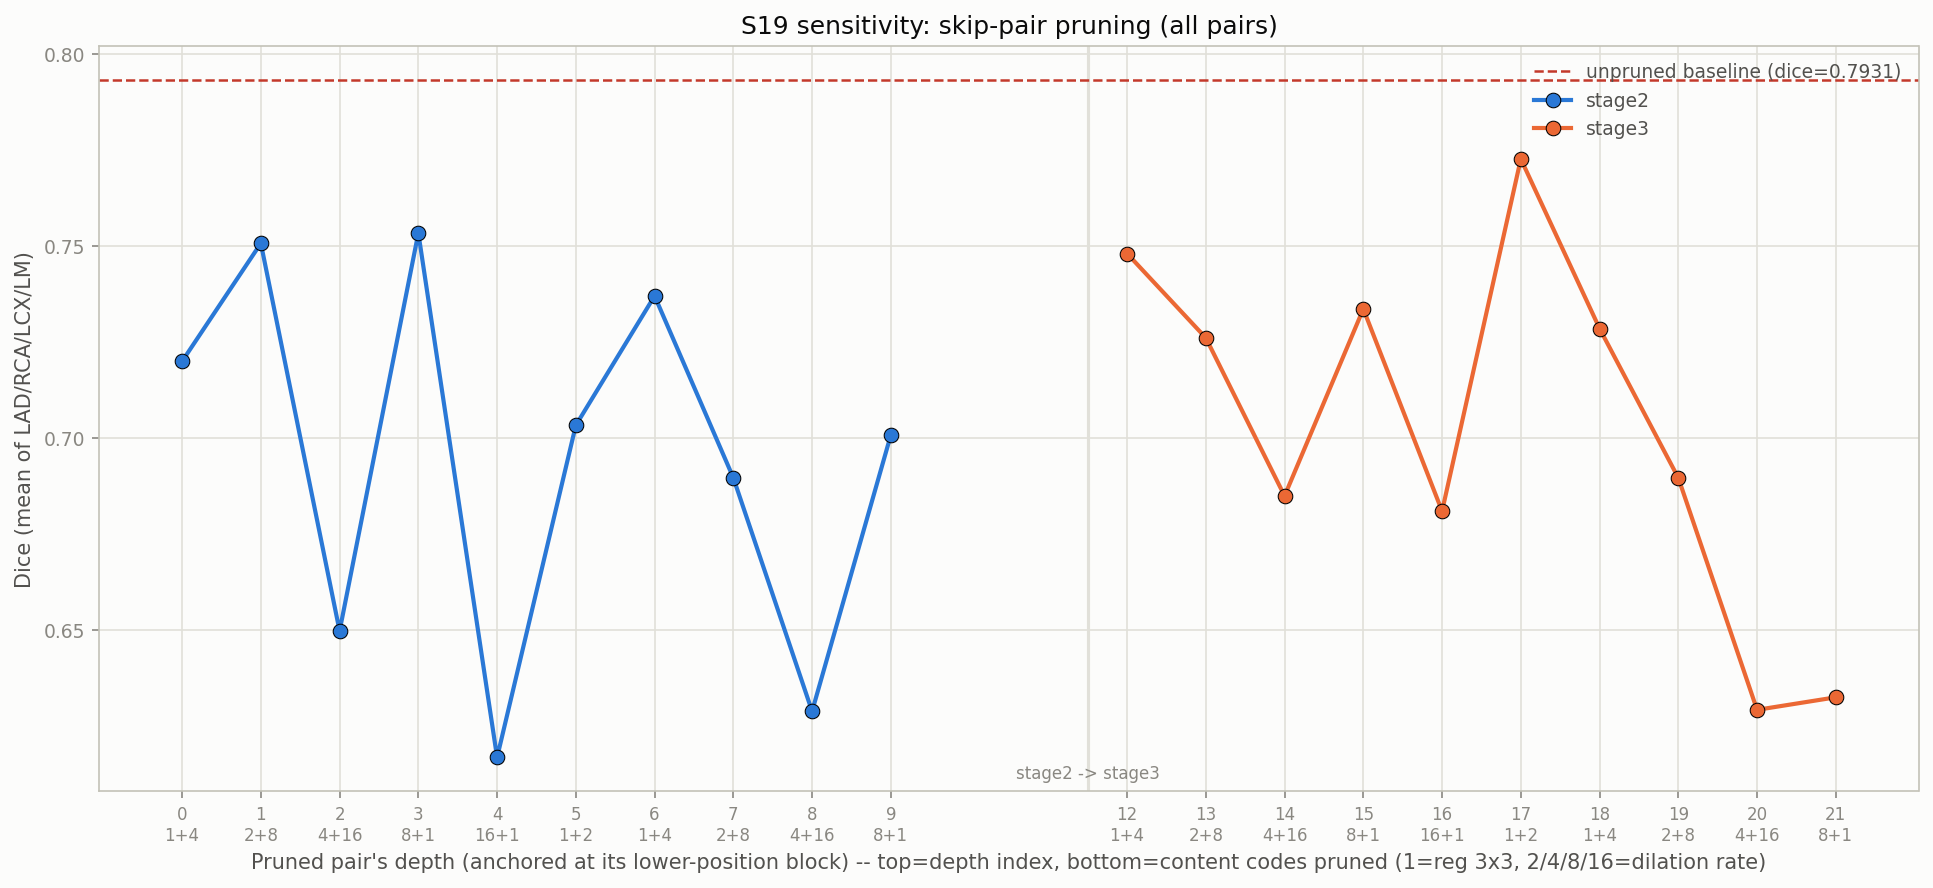
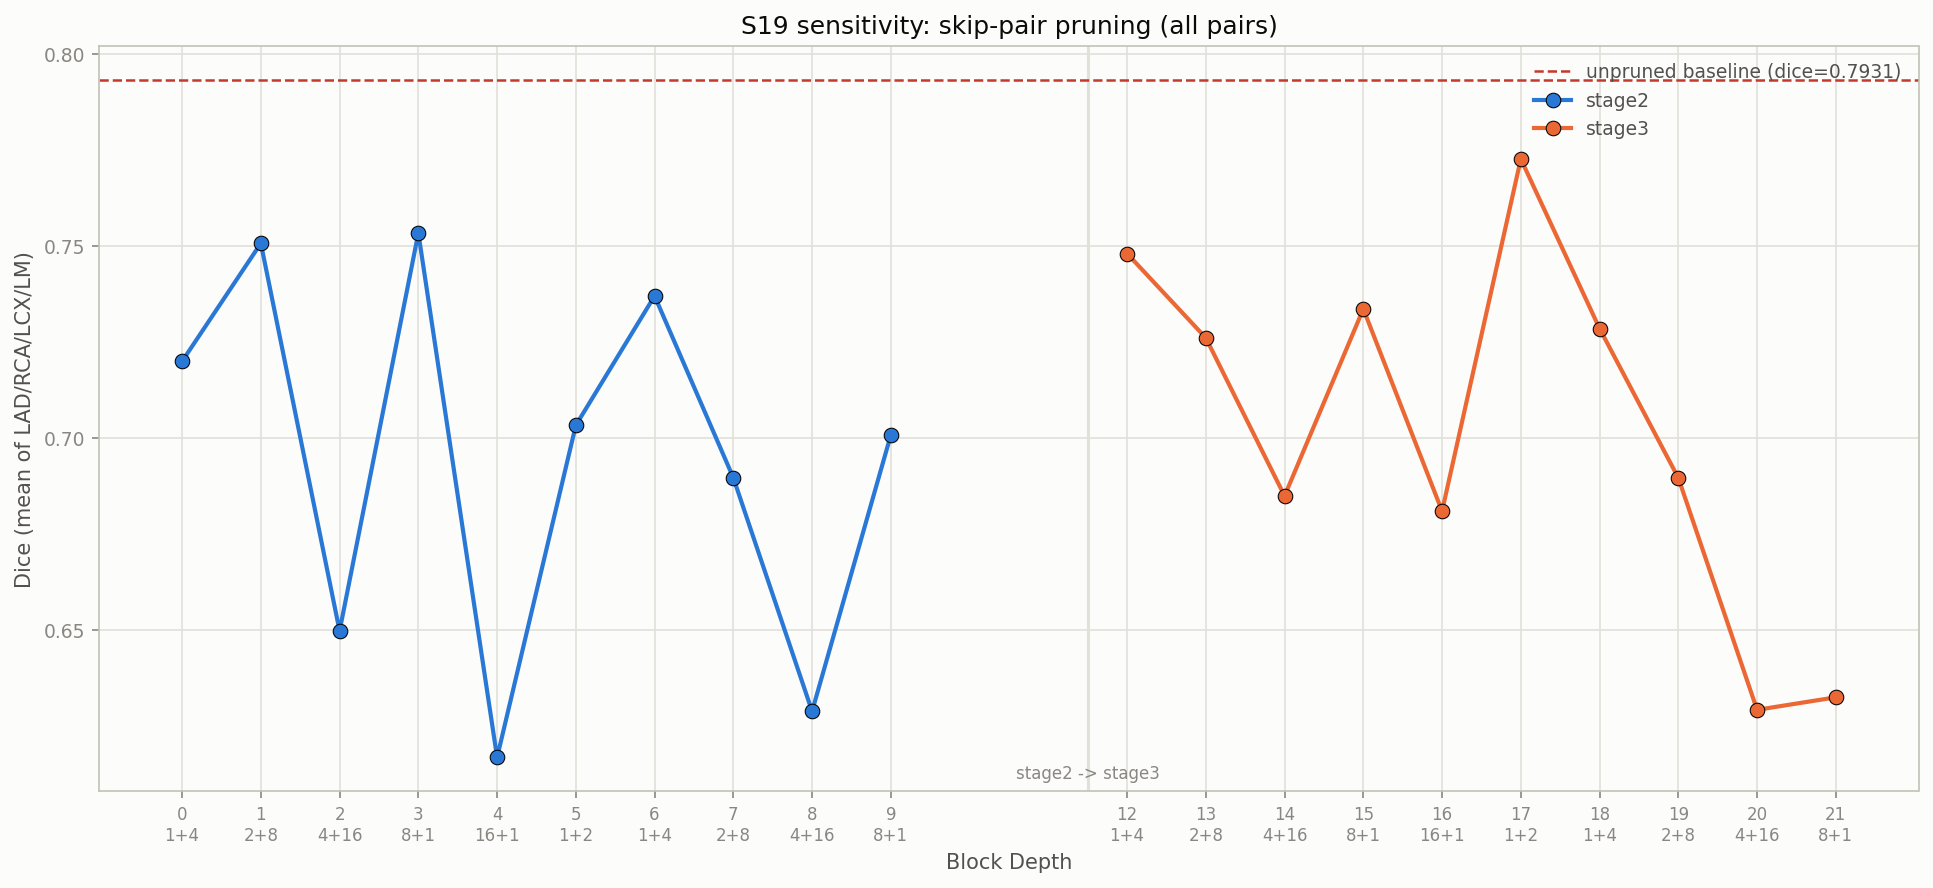
S19 skip-pair pruning plot: shorten x-axis label to "Block Depth" too
Generalized the consec-only is_s19_consec xlabel check to is_s19 (applies
to both consec and skip pairs for S19); seam-marker normalization stays
scoped to consec only (skip pairs has no seam row today anyway). S8-ReLU's
plots keep their detailed xlabel.

Changed region(s): [[0.4656, 0.9426, 0.9002, 1.0], [0.1242, 0.9426, 0.4346, 1.0]]

diff --git a/compression/plot_pruning_sensitivity.py b/compression/plot_pruning_sensitivity.py
@@ -259,7 +259,8 @@ def _plot_pairs(df: pd.DataFrame, cfg: dict, kind: str, out_name: str, title: st
     data = pd.DataFrame(records, columns=["stage", "depth", "content", "dice"])
     seam_data = pd.DataFrame(seam_records, columns=["depth", "content", "dice"])
 
-    is_s19_consec = cfg["out_suffix"] == "_s19" and kind == "consec"
+    is_s19 = cfg["out_suffix"] == "_s19"
+    is_s19_consec = is_s19 and kind == "consec"
 
     fig, ax = plt.subplots(figsize=(13, 6), facecolor=SURFACE)
     _style_axes(ax)
@@ -292,7 +293,7 @@ def _plot_pairs(df: pd.DataFrame, cfg: dict, kind: str, out_name: str, title: st
     all_rows = pd.concat(pair_frames, ignore_index=True).sort_values("depth").drop_duplicates()
     ax.set_xticks(all_rows["depth"])
     ax.set_xticklabels([f"{d}\n{c}" for d, c in zip(all_rows["depth"], all_rows["content"])], fontsize=8)
-    if is_s19_consec:
+    if is_s19:
         ax.set_xlabel("Block Depth", color=SECONDARY_INK, fontsize=10)
     else:
         ax.set_xlabel("Pruned pair's depth (anchored at its lower-position block) -- "
